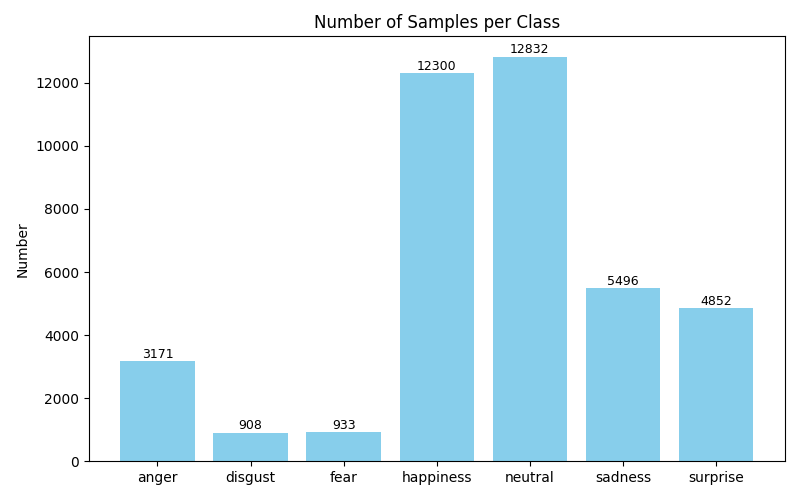
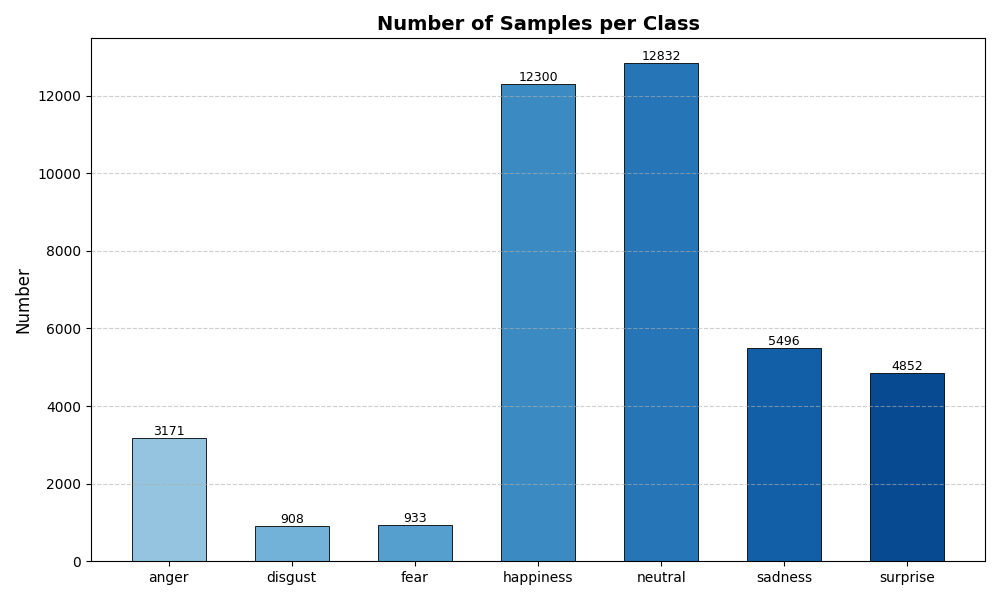
Plot more visuals

diff --git a/data_set/data_set_combine.py b/data_set/data_set_combine.py
@@ -10,6 +10,7 @@ from scipy.ndimage import rotate
 from skimage.transform import resize
 
 import collections
+from matplotlib import cm
 
 
 
@@ -172,27 +173,72 @@ def show_class_distribution(y, class_names):
     counts = collections.Counter(y)
     ordered_counts = [counts[i] for i in range(len(class_names))]
     
-    plt.figure(figsize=(8, 5))
-    bars = plt.bar(class_names, ordered_counts, color="skyblue")
-    plt.title("Number of Samples per Class")
-    plt.ylabel("Number")
+    # Add a color fade effect to the bars
+    colors = cm.Blues(np.linspace(0.4, 0.9, len(class_names)))
     
-    
+    plt.figure(figsize=(10, 6))
+    bars = plt.bar(class_names, ordered_counts, color=colors, edgecolor='black', linewidth=0.6, width=0.6)
+
     for bar, count in zip(bars, ordered_counts):
         height = bar.get_height()
-        plt.text(bar.get_x() + bar.get_width() / 2, height + 5, str(count), 
+        plt.text(bar.get_x() + bar.get_width() / 2, height + 3, str(count), 
                  ha='center', va='bottom', fontsize=9, color='black')
+    
+    plt.grid(axis='y', linestyle='--', alpha=0.6)
+    plt.title("Number of Samples per Class", fontsize=14, fontweight='bold')
+    plt.ylabel("Number", fontsize=12)
+    
     plt.tight_layout()
     plt.savefig("visual_class_distribution.png")
     plt.show()
 
+ 
+def show_dataset_distribution_comparison():
+    class_names = get_standard_classes()
+    class_to_idx = {cls: idx for idx, cls in enumerate(class_names)}
     
-           
+    # Load separately
+    _, y_fer = load_image_folder(FERPLUS_TRAIN_DIR, class_to_idx)
+    _, y_raf = load_image_folder(RAFDB_TRAIN_DIR, class_to_idx)
+    
+    # Count
+    fer_counts = collections.Counter(y_fer)
+    raf_counts = collections.Counter(y_raf)
+    fer_vals = [fer_counts[i] for i in range(len(class_names))]
+    raf_vals = [raf_counts[i] for i in range(len(class_names))]
+    total_vals = [f + r for f, r in zip(fer_vals, raf_vals)]
+
+    x = np.arange(len(class_names))
+    width = 0.6
+    fig, ax = plt.subplots(figsize=(12, 6))
+    bars1 = ax.bar(x, fer_vals, label='FER2013+', color=cm.Oranges(0.6))
+    bars2 = ax.bar(x, raf_vals, bottom=fer_vals, label='RAF-DB', color=cm.Blues(0.6))
+    
+    # Label each part of the stack
+    for idx in range(len(class_names)):
+        # Label FER
+        ax.text(x[idx], fer_vals[idx] / 2, str(fer_vals[idx]),
+                ha='center', va='center', fontsize=9, color='black')
+        # Label RAF
+        ax.text(x[idx], fer_vals[idx] + raf_vals[idx] / 2, str(raf_vals[idx]),
+                ha='center', va='center', fontsize=9, color='black')
+            
+    ax.set_title("Sample Count per Class in FER2013+ vs RAF-DB", fontsize=14, fontweight='bold')
+    ax.set_ylabel("Number of Samples", fontsize=12)
+    ax.set_xticks(x)
+    ax.set_xticklabels(class_names, rotation=45)
+    ax.legend()
+    ax.grid(axis='y', linestyle='--', alpha=0.6)
+
+    plt.tight_layout()
+    plt.savefig("visual_dataset_comparison.png")
+    plt.show()
+    
 def main():
     X_train_img, y_train, X_test_img, y_test, class_names = load_and_combine_datasets()
     #show_augmented_versions(X_train_img, y_train, class_names, target_class_idx=0)  
-    show_class_distribution(y_train, class_names)
- 
+    #show_class_distribution(y_train, class_names)
+    show_dataset_distribution_comparison()
 if __name__ == "__main__":
     main()
    
